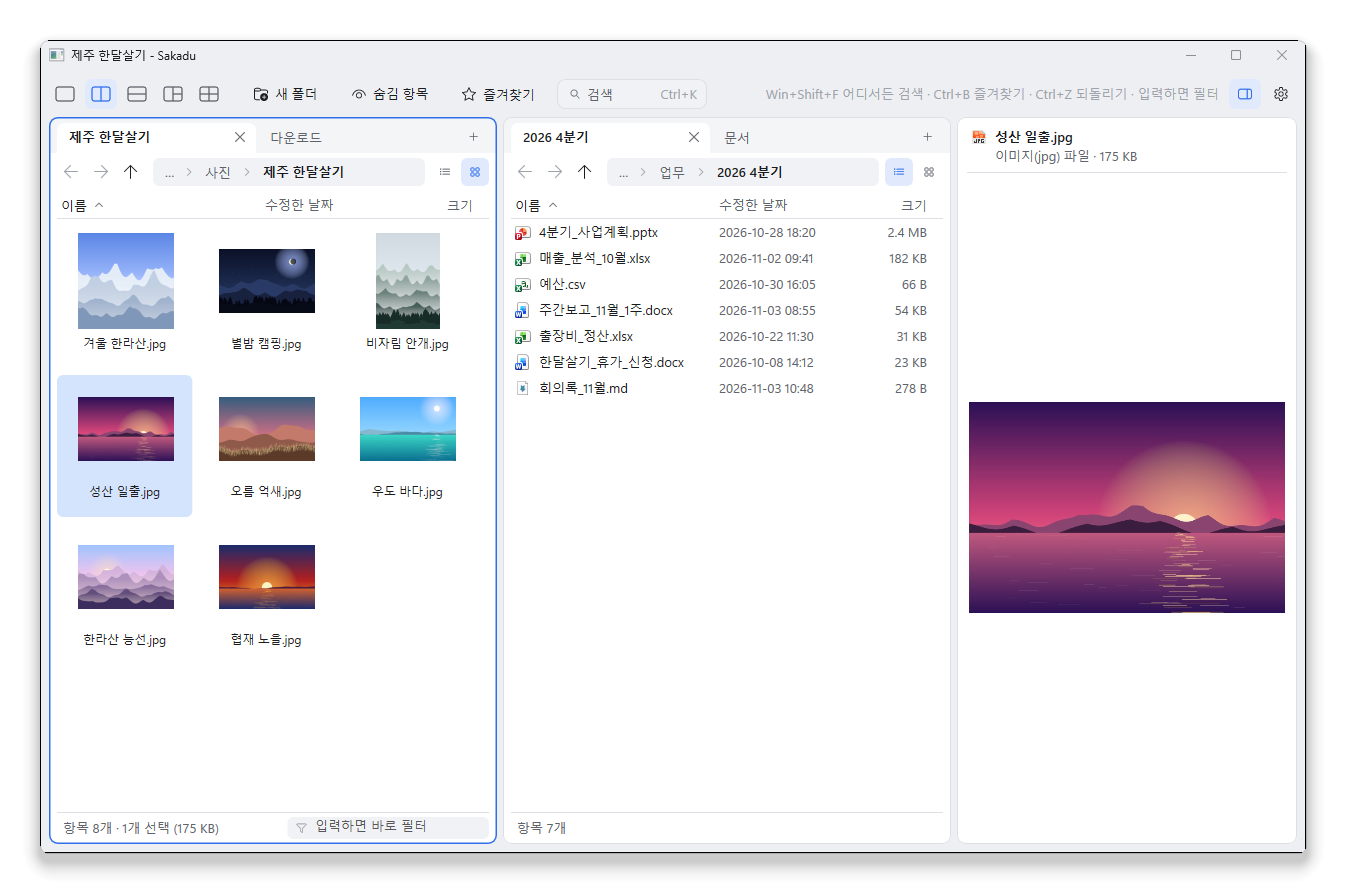
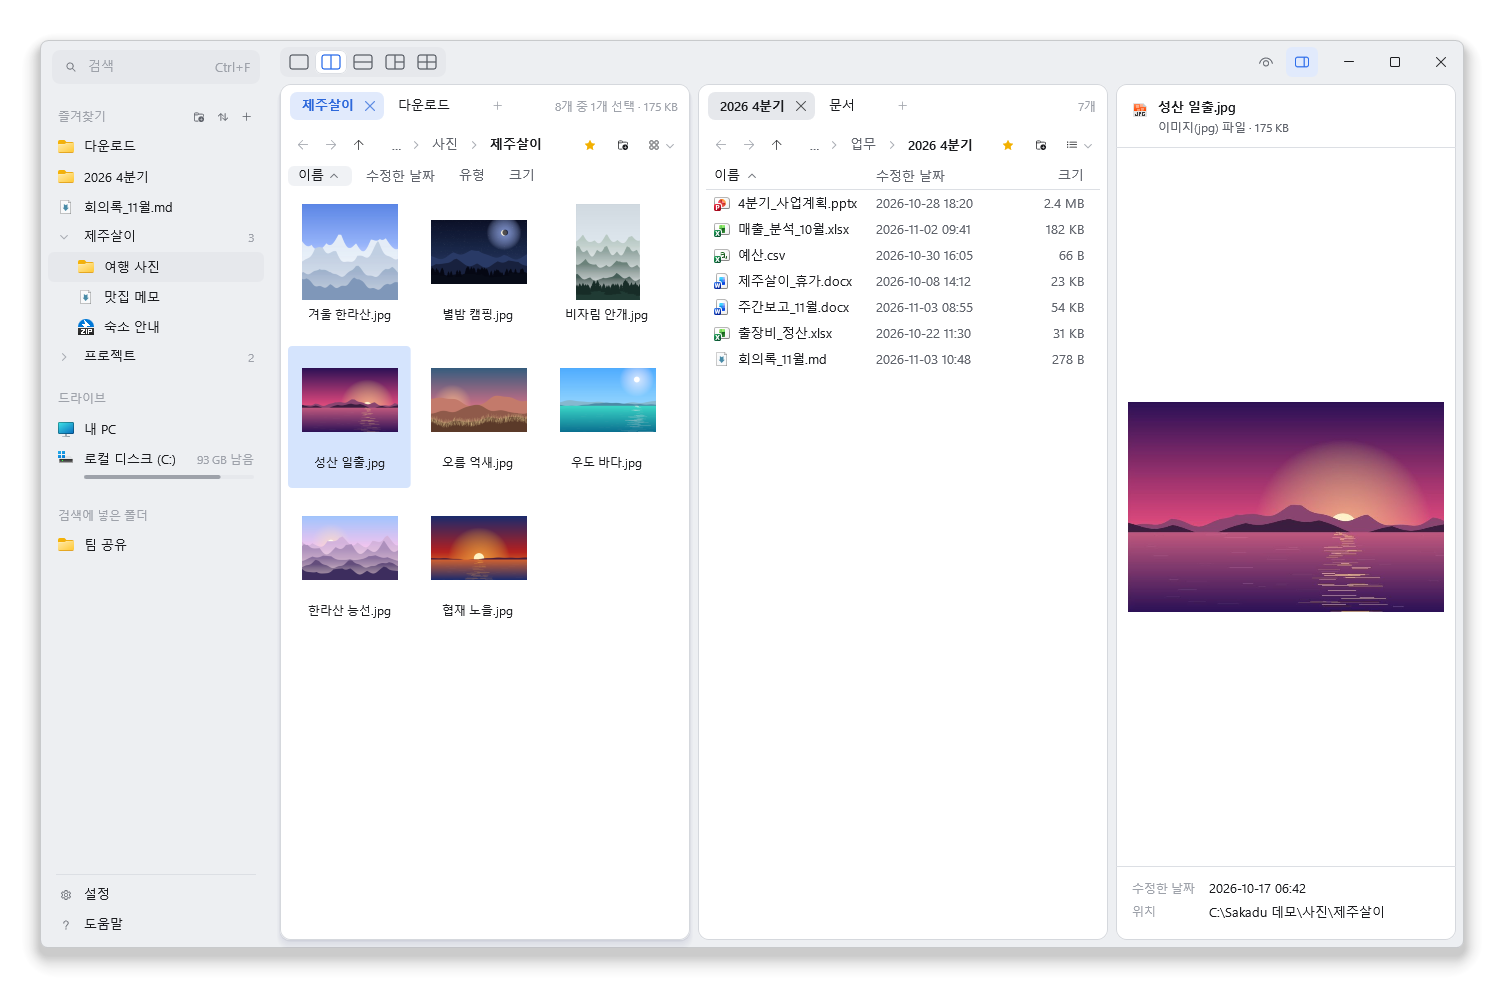
README 스크린샷을 사이드바 화면으로 바꾸고 바뀐 화면에 맞지 않던 문장을 고친다
- 메인·검색·다크 스크린샷을 v0.5.0 화면(사이드바, 칸 카드, 검색 창)으로 다시 찍음
- 관리자 표시는 작업 표시줄·Alt+Tab의 창 제목에 보인다고 고침 (창 안에 제목 줄이 없음)
- 코드 구조 표의 사이드바 줄에 도움말을 더함
- exe 크기 0.7MB → 1.1MB

diff --git a/README.en.md b/README.en.md
@@ -4,9 +4,9 @@
 
 A Windows file manager that keeps several folders open side by side and finds any file on your disk as you type its name.
 
-![Sakadu with two panes, thumbnails and the preview pane](docs/screenshot-main.png)
+![Sakadu with the sidebar, two panes, thumbnails and the preview pane](docs/screenshot-main.png)
 
-**[Download the latest release](https://github.com/noddish/sakadu/releases/latest)** · Windows 11 · a single 0.7 MB exe, no installer · free and open source
+**[Download the latest release](https://github.com/noddish/sakadu/releases/latest)** · Windows 11 · a single 1.1 MB exe, no installer · free and open source
 
 > The interface is Korean only for now.
 
@@ -196,7 +196,7 @@ Settings, window state and favorites all live in `%APPDATA%\Sakadu`.
 Please open an [issue](https://github.com/noddish/sakadu/issues). For something hard to reproduce, run `sakadu.exe --log`
 and attach `%TEMP%\sakadu.log`. The log contains folder paths, so give it a look before posting.
 
-When Sakadu runs as administrator (the title says "(관리자)"), Windows (UIPI) blocks drag and drop with a normal Explorer window.
+When Sakadu runs as administrator (the window title on the taskbar and in Alt+Tab says "(관리자)"), Windows (UIPI) blocks drag and drop with a normal Explorer window.
 
 ## Building
 
@@ -223,7 +223,7 @@ cargo test
 | `app.rs` | Layout, input, drawing, pane and tab behavior |
 | `app/settings_ui.rs` | Settings window (general, appearance, search, shortcuts, help, about) |
 | `keys.rs` | Remappable shortcuts (key map, saving) |
-| `app/sidebar.rs` · `app/fav_ui.rs` | Sidebar (search box, favorites, drives, search folders, settings) · favorites actions |
+| `app/sidebar.rs` · `app/fav_ui.rs` | Sidebar (search box, favorites, drives, search folders, settings, help) · favorites actions |
 | `app/palette.rs` · `app/preview.rs` | Ctrl+F search · preview pane |
 | `pane.rs` | Tab state (history, sort, filter, selection) |
 | `listing.rs` | Folder listing, This PC, display formatting |
